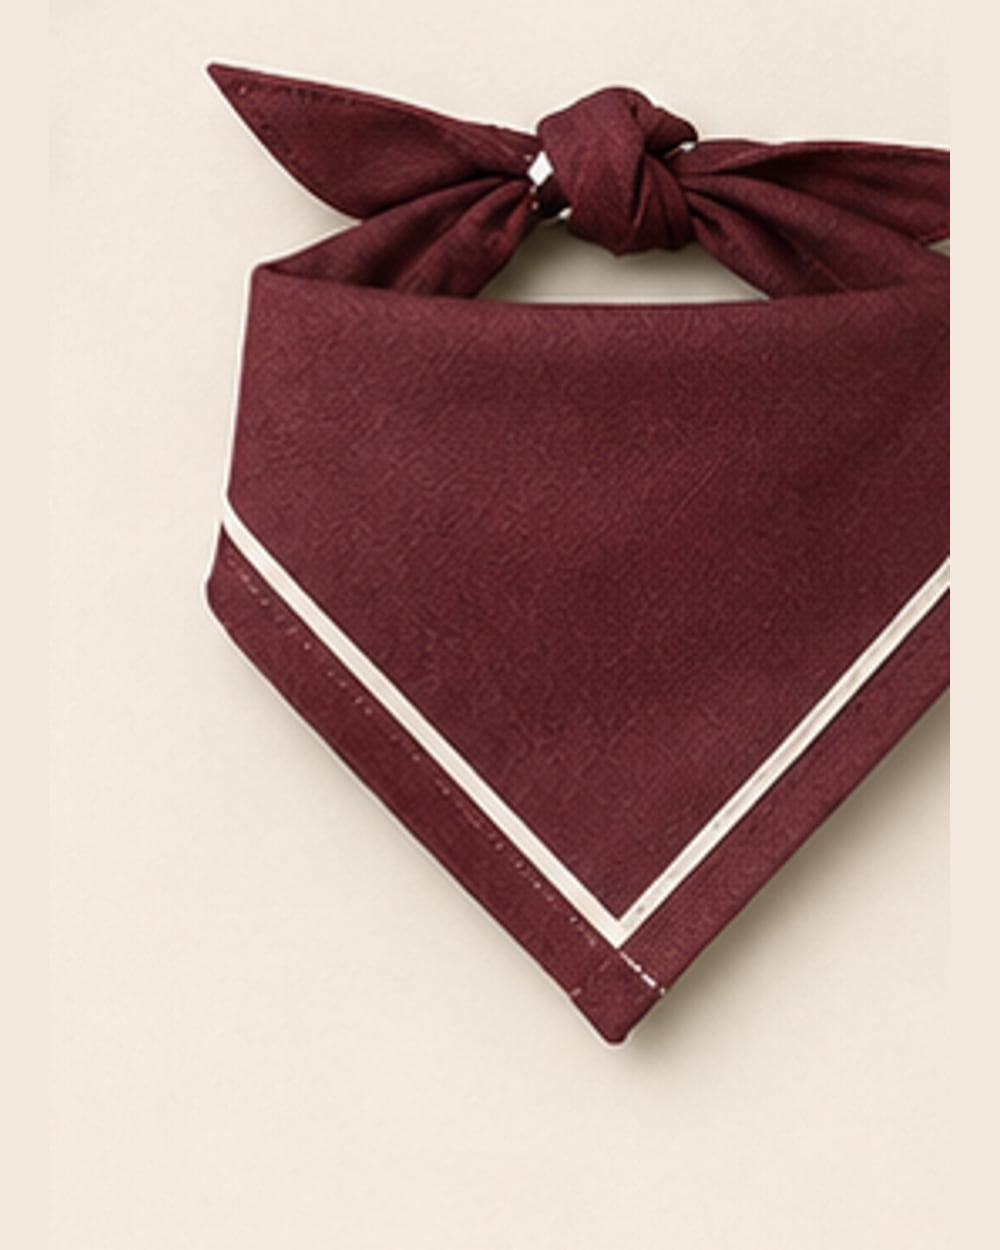
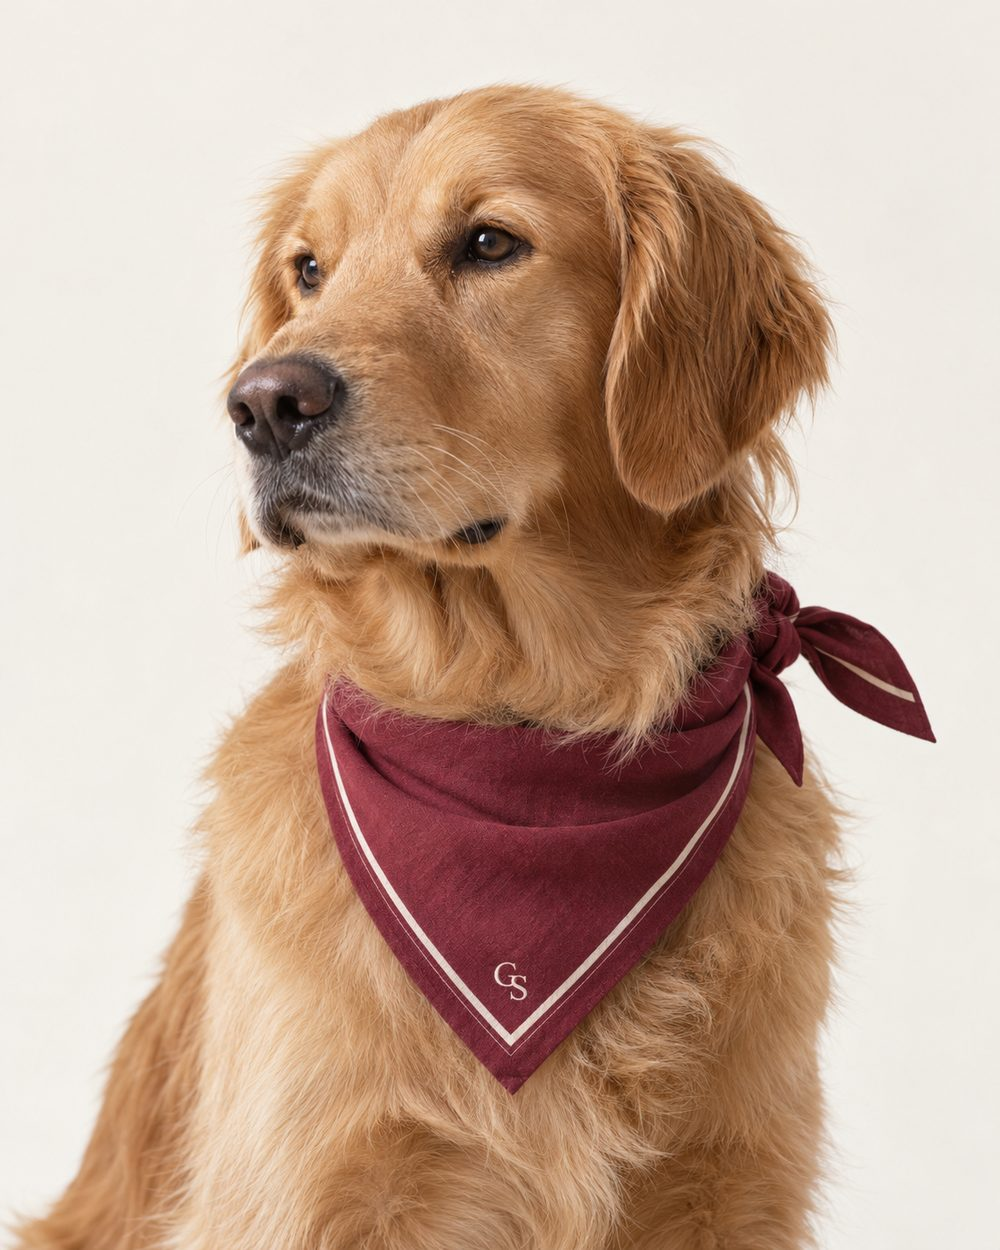
Put the branded tee, cap and bandana photographs in
Three new shots, resized to 1000 x 1250 like the rest:

- The tee now carries the oxblood GS monogram at the chest. Its blurb said
  "the interlocking OO at the chest", which is the wordmark's ligature and not
  what goes on a garment, so it names the monogram.
- The cap carries the chalk GS monogram. Its details claimed a tonal
  embroidered wordmark, which was neither tonal nor a wordmark.
- The bandana's second view is the piece on a dog, knotted at the neck. It
  replaces a tighter crop of the same flat lay, which said nothing the first
  view did not.

The generated colourways for the tee and the cap go the way of the bag's: they
are repaints of garments that carried no mark, so they no longer match their
base. Neither can be regenerated from the new photographs either, because both
marks would go with the body: oxblood on chalk disappears when the chalk is
painted oxblood, and the chalk monogram loses the cap. Ink and oxblood on the
tee, and ink on the cap, fall back to the photographed colourway until there is
a camera.

Claude-Session: https://claude.ai/code/session_011WcL3fD8mb88LVLNfQHdBG

diff --git a/good-sort/src/lib/catalogue.ts b/good-sort/src/lib/catalogue.ts
@@ -119,7 +119,7 @@ export const PRODUCTS: Product[] = [
     sizes: ["XS", "S", "M", "L", "XL", "XXL"],
     sizeNote: "Boxy, dropped shoulder. Size down for a closer fit.",
     blurb:
-      "Heavyweight organic cotton with the interlocking OO at the chest and nothing else to say. Cut to sit long and loose over whatever you walked out the door in.",
+      "Heavyweight organic cotton with the GS monogram at the chest and nothing else to say. Cut to sit long and loose over whatever you walked out the door in.",
     details: [
       "240 gsm organic cotton jersey",
       "Dropped shoulder, ribbed collar",
@@ -129,11 +129,9 @@ export const PRODUCTS: Product[] = [
     images: {
       base: "chalk",
       tone: "powder",
-      stills: {
-        chalk: "/images/tee.jpg",
-        ink: "/images/tee-ink.jpg",
-        oxblood: "/images/tee-oxblood.jpg",
-      },
+      // TODO(future): ink and oxblood are waiting on a camera. Repainting the
+      // chalk tee would swallow the oxblood monogram along with the body.
+      stills: { chalk: "/images/tee.jpg" },
       worn: { tone: "denim", src: "/images/tee-worn.jpg" },
     },
   },
@@ -149,13 +147,15 @@ export const PRODUCTS: Product[] = [
     details: [
       "Brushed cotton twill, unstructured crown",
       "Solid brass adjuster",
-      "Tonal embroidered wordmark",
+      "Embroidered GS monogram",
       "One size, fits most",
     ],
     images: {
       base: "denim",
       tone: "powder",
-      stills: { denim: "/images/cap.jpg", ink: "/images/cap-ink.jpg" },
+      // TODO(future): ink is waiting on a camera. The denim cap repainted dark
+      // loses the chalk monogram's contrast.
+      stills: { denim: "/images/cap.jpg" },
       worn: { tone: "chalk", src: "/images/cap-worn.jpg" },
     },
   },
